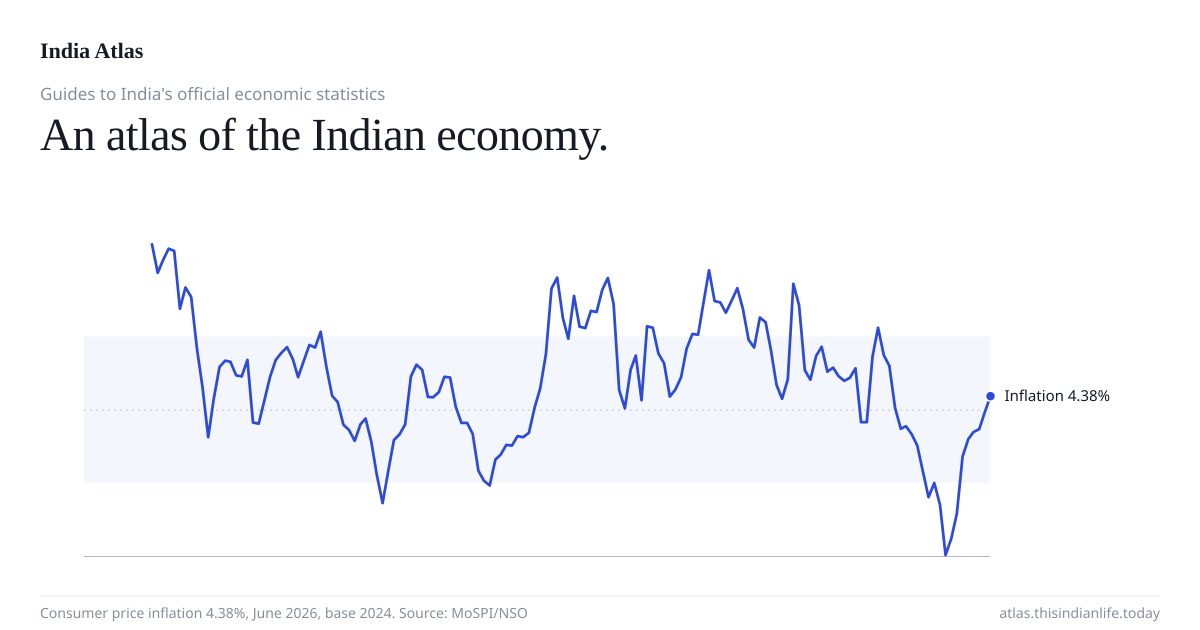
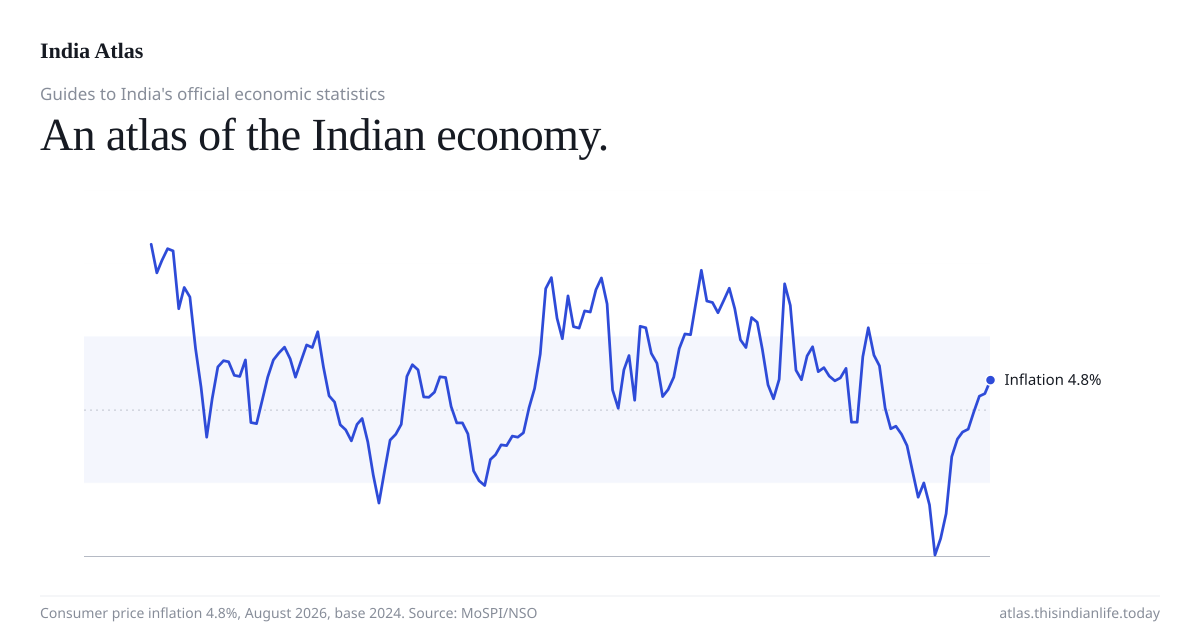
furniture: home at one decimal, method and about current, register fills every guide and reads its vintages, site OG card
Claude-Session: https://claude.ai/code/session_01VLDkCMuhbz4cwKQfbDoyCE

diff --git a/src/dossiers/register.client.js b/src/dossiers/register.client.js
@@ -5,6 +5,7 @@ import * as Plot from "@observablehq/plot";
 import cpiBundle from "../../data/series/cpi.json";
 import cpi2024Bundle from "../../data/series/cpi-2024.json";
 import gdpBundle from "../../data/series/gdp.json";
+import gdp2022Bundle from "../../data/series/gdp-2022.json";
 import wpiBundle from "../../data/series/wpi.json";
 import iipBundle from "../../data/series/iip-2022.json";
 // external account: RBI DBIE bundles (lb/external, 2026-10)
@@ -41,6 +42,7 @@ import { hydrate } from "../charts/plumbing.js";
 const C = hydrate(cpiBundle);
 const C24 = hydrate(cpi2024Bundle);   // base 2024=100 — separate series, never spliced
 const G = hydrate(gdpBundle);
+const G22 = hydrate(gdp2022Bundle);   // base 2022-23, the current ruler
 const W = hydrate(wpiBundle);
 const I = hydrate(iipBundle);
 const PM = hydrate(plfsMonthlyBundle);
@@ -93,18 +95,20 @@ const RATIO = { data: M2.rural.data.map((d, i) => ({ date: d.date, value: M2.urb
 // rows[8] (optional) overrides the section vintage — the 2024-base prints
 // arrive on their own release cycle
 const cpiRows = [
-  ["Headline CPI, base 2024", "CPI24-ALL", "s-acc", C24.headline, false, "/guides/cpi/", null, f1, "12 Jul 2026"],
-  ["Food & beverages, base 2024", "CPI24-FB", "s-g1", C24.food_and_beverages, false, "/guides/cpi/", null, f1, "12 Jul 2026"],
+  ["Headline CPI, base 2024", "CPI24-ALL", "s-acc", C24.headline, false, "/guides/cpi/", null, f1, "VINT_CPI24"],
+  ["Food & beverages, base 2024", "CPI24-FB", "s-g1", C24.food_and_beverages, false, "/guides/cpi/", null, f1, "VINT_CPI24"],
   ["Headline CPI (combined), base retired, to Dec 2025", "CPI-ALL", "s-acc", C.headline, false, "/guides/cpi/", "computed"],
   ["Food & beverages, base retired, to Dec 2025", "CPI-FB", "s-g1", C.food, false, "/guides/cpi/"],
   ["Fuel & light, base retired, to Dec 2025", "CPI-FUEL", "s-g2", C.fuel, false, "/guides/cpi/"],
   ["Core, ex food & fuel, base retired, to Dec 2025", "IA-CORE", "s-g3", C.core, true, "/guides/cpi/", "derived"],
 ];
+// the current 2022-23 base first (its own vintage), then the retired 2011-12 base, labelled as such
 const gdpRows = [
-  ["Real GDP", "NAS-GDP", "s-acc", G.gdp, false, "/guides/gdp/", "computed"],
-  ["Real GVA", "NAS-GVA", "s-g1", G.gva, false, "/guides/gdp/"],
-  ["Consumption, PFCE", "NAS-PFCE", "s-g2", G.pfce, false, "/guides/gdp/", "computed"],
-  ["Investment, GFCF", "NAS-GFCF", "s-g3", G.gfcf, false, "/guides/gdp/", "computed"],
+  ["Real GDP growth, base 2022-23", "NAS22-GDP", "s-acc", G22.gdp, false, "/guides/gdp/", "computed", f1, "VINT_GDP22"],
+  ["Real GVA growth, base 2022-23", "NAS22-GVA", "s-g1", G22.gva, false, "/guides/gdp/", null, f1, "VINT_GDP22"],
+  ["Consumption (PFCE) growth, base 2022-23", "NAS22-PFCE", "s-g2", G22.pfce, false, "/guides/gdp/", "computed", f1, "VINT_GDP22"],
+  ["Investment (GFCF) growth, base 2022-23", "NAS22-GFCF", "s-g3", G22.gfcf, false, "/guides/gdp/", "computed", f1, "VINT_GDP22"],
+  ["Real GDP growth, base 2011-12, retired", "NAS-GDP", "s-g4", G.gdp, false, "/guides/gdp/", "computed"],
 ];
 const wpiRows = [
   ["Headline WPI", "WPI-ALL", "s-acc", W.headline, false, "/guides/wpi/", "computed"],
@@ -155,7 +159,7 @@ const aisheRows = [
   ["Student enrolment, AISHE", "AISHE-ENR", "s-acc", AIH.enrolment, false, "/guides/aishe/", null, fCr],
   ["Universities, AISHE", "AISHE-UNI", "s-g1", AIH.universities, false, "/guides/aishe/", null, (v) => Math.round(v).toLocaleString("en-IN")],
   ["Colleges, AISHE", "AISHE-COL", "s-g2", AIH.colleges, false, "/guides/aishe/", null, (v) => Math.round(v).toLocaleString("en-IN")],
-  ["Teachers, AISHE, 2021-22 reconstructed", "AISHE-TEA", "s-g3", AIH.teachers, false, "/guides/aishe/", null, fCr],
+  ["Teachers, AISHE", "AISHE-TEA", "s-g3", AIH.teachers, false, "/guides/aishe/", null, fCr],
   ["Gross Enrolment Ratio, All Categories", "AISHE-GER", "s-g4", AIH.ger, false, "/guides/aishe/", null, (v) => v.toFixed(1) + "%"],
   ["Gender Parity Index, All Categories", "AISHE-GPI", "s-acc", AIH.gpi, false, "/guides/aishe/", null, (v) => v.toFixed(2)],
   ["Pupil-Teacher Ratio, all institutions", "AISHE-PTR", "s-g1", AIH.ptr, false, "/guides/aishe/", null, (v) => String(Math.round(v))],
@@ -182,6 +186,9 @@ const vintOf = (b) => {
   return `${Number(iso.slice(8, 10))} ${VT_MS[Number(iso.slice(5, 7)) - 1]} ${iso.slice(0, 4)}`;
 };
 
+// row-level vintages named by key, resolved from the bundle so they never rot
+const VT_OF = { VINT_CPI24: vintOf(cpi2024Bundle), VINT_GDP22: vintOf(gdp2022Bundle) };
+
 function render(tbody, rows, lag, prefix, vintage, srcName = "MoSPI / NSO") {
   document.getElementById(tbody).innerHTML = rows.map(([nm, code, sw, s, derived, href, note, fmt, vt], i) => {
     const f = fmt ?? f1;
@@ -199,7 +206,7 @@ function render(tbody, rows, lag, prefix, vintage, srcName = "MoSPI / NSO") {
       <td class="code">${code}</td>
       <td class="val">${f(data.at(-1).value)}</td>
       <td class="code">${yrAgo == null ? "—" : f(yrAgo.value)}</td>
-      <td class="vt">${vt ?? vintage}</td>
+      <td class="vt">${VT_OF[vt] ?? vt ?? vintage}</td>
       <td class="spark" id="${prefix}-${i}"></td>
     </tr>`;
   }).join("");
@@ -228,9 +235,9 @@ function render(tbody, rows, lag, prefix, vintage, srcName = "MoSPI / NSO") {
 render("reg-cpi", cpiRows, 12, "spc", "12 Jan 2026");
 render("reg-gdp", gdpRows, 4, "spg", "28 Nov 2025");
 render("reg-wpi", wpiRows, 12, "spw", vintOf(wpiBundle), "OEA / DPIIT");
-render("reg-iip", iipRows, 12, "spi", "Jul 2026, QE");
+render("reg-iip", iipRows, 12, "spi", vintOf(iipBundle));
 render("reg-ext", extRows, 12, "spe", vintOf(extBopBundle), "RBI DBIE");
-render("reg-plfs", plfsRows, 12, "spl", "Jun 2026");
+render("reg-plfs", plfsRows, 12, "spl", vintOf(plfsMonthlyBundle));
 render("reg-hces", hcesRows, 1, "sph", "2023-24 round");
 render("reg-asi", asiRows, 1, "spa", "2023-24");
 render("reg-aishe", aisheRows, 12, "spai", "2021-22 round", "Ministry of Education");
@@ -248,7 +255,7 @@ const mnreRows = [
   ["Wind, installed, GW", "MNRE-WND", "s-g2", MNRE.wind, false, "/guides/mnre/", null, (v) => (v / 1000).toFixed(1) + " GW"],
   ["Rooftop solar, installed, GW", "MNRE-RT", "s-g3", MNRE_RT.rooftop, false, "/guides/mnre/", null, (v) => (v / 1000).toFixed(1) + " GW"],
 ];
-render("reg-mnre", mnreRows, 1, "spmn", "Jun 2026", "MNRE");
+render("reg-mnre", mnreRows, 1, "spmn", vintOf(mnreSourcesBundle), "MNRE");
 // NFHS — 2-point, cross-sectional; the register's year-ago logic needs no change
 // (it finds the nearest observation ~365 days back, which is the NFHS-4 point)
 // Bank deposits, RBI BSR-2: annual, as on 31 March, ₹ lakh crore
@@ -261,7 +268,7 @@ import depositsBundle from "../../data/series/deposits-owners.json";
     ["Household fixed (term) deposits", "BSR2-HHT", "s-g1", DP.household_term, false, "/guides/deposits/", null, lc],
     ["Household savings accounts", "BSR2-HHS", "s-g2", DP.household_savings, false, "/guides/deposits/", null, lc],
     ["Women's deposits", "BSR2-F", "s-g3", DP.female_total, false, "/guides/deposits/", null, lc],
-  ], 1, "spdp", "Mar 2026", "RBI BSR-2");
+  ], 1, "spdp", vintOf(depositsBundle), "RBI BSR-2");
 }
 // health-gender: the two rounds are separate bundles (two rulers); the register shows NFHS-5
 // and dates the NFHS-4 point four years back, so the year-ago column stays a dash by design
@@ -480,3 +487,35 @@ import pfMonthlyBundle from "../../data/series/public-finance-centre-monthly.jso
   ], 12, "sppf", lbl, "CGA, via the RBI Bulletin");
 }
 // --- end public-finance ---
+
+// register tables for the guides added in the DBIE wave (manufacturing, farms, markets)
+import wdiMfgBundle from "../../data/series/wdi-manufacturing.json";
+import farmsProdBundle from "../../data/series/farms-production.json";
+import farmsPdsBundle from "../../data/series/farms-pds.json";
+import marketsHhBundle from "../../data/series/markets-hh-flows.json";
+{
+  const WM = hydrate(wdiMfgBundle);
+  const pc = (v) => v.toFixed(1) + "%";
+  render("reg-manufacturing", [
+    ["Manufacturing value added, % of GDP", "WDI-MVA", "s-acc", WM.mva_pct_gdp, false, "/guides/manufacturing/", null, pc],
+    ["Industry including construction, % of GDP", "WDI-IND", "s-g1", WM.industry_pct_gdp, false, "/guides/manufacturing/", null, pc],
+    ["Manufacturing value added, growth", "WDI-MVAG", "s-g2", WM.mva_growth, false, "/guides/manufacturing/", null, pc],
+  ], 1, "spmf", vintOf(wdiMfgBundle), "World Bank WDI");
+  const FP = hydrate(farmsProdBundle), FD = hydrate(farmsPdsBundle);
+  const mt = (v) => (v / 1000).toFixed(1) + " mt";          // thousand tonnes -> million tonnes
+  const mtL = (v) => (v / 10).toFixed(1) + " mt";           // lakh tonnes -> million tonnes
+  render("reg-farms", [
+    ["Foodgrains, final estimate", "AG-FG", "s-acc", FP.foodgrains, false, "/guides/farms/", null, mt],
+    ["Rice", "AG-RICE", "s-g1", FP.rice, false, "/guides/farms/", null, mt],
+    ["Wheat", "AG-WHT", "s-g2", FP.wheat, false, "/guides/farms/", null, mt],
+    ["Pulses", "AG-PUL", "s-g3", FP.pulses, false, "/guides/farms/", null, mt],
+    ["Rice procured, central pool", "FCI-PR-R", "s-g4", noNulls(FD.procurement_rice), false, "/guides/farms/", null, mtL, vintOf(farmsPdsBundle)],
+    ["Wheat procured, central pool", "FCI-PR-W", "s-g1", noNulls(FD.procurement_wheat), false, "/guides/farms/", null, mtL, vintOf(farmsPdsBundle)],
+  ], 1, "spfm", vintOf(farmsProdBundle), "Agriculture ministry via RBI");
+  const MH = hydrate(marketsHhBundle);
+  render("reg-markets", [
+    ["Households' net financial saving, % of GDP", "RBI-HHNFS", "s-acc", MH.per_cent_of_gdp_as_per_cent_to_gdp, false, "/guides/markets/", null, pc],
+    ["Households' gross financial assets, % of GDP", "RBI-HHGFA", "s-g1", MH.gross_financial_assets_per_cent_of_gdp_as_per_cent_to_gdp, false, "/guides/markets/", null, pc],
+    ["Households' financial liabilities, % of GDP", "RBI-HHFL", "s-g2", MH.gross_financial_liabilities_per_cent_of_gdp_as_per_cent_to_gdp, false, "/guides/markets/", null, pc],
+  ], 4, "spmk", vintOf(marketsHhBundle), "RBI");
+}
